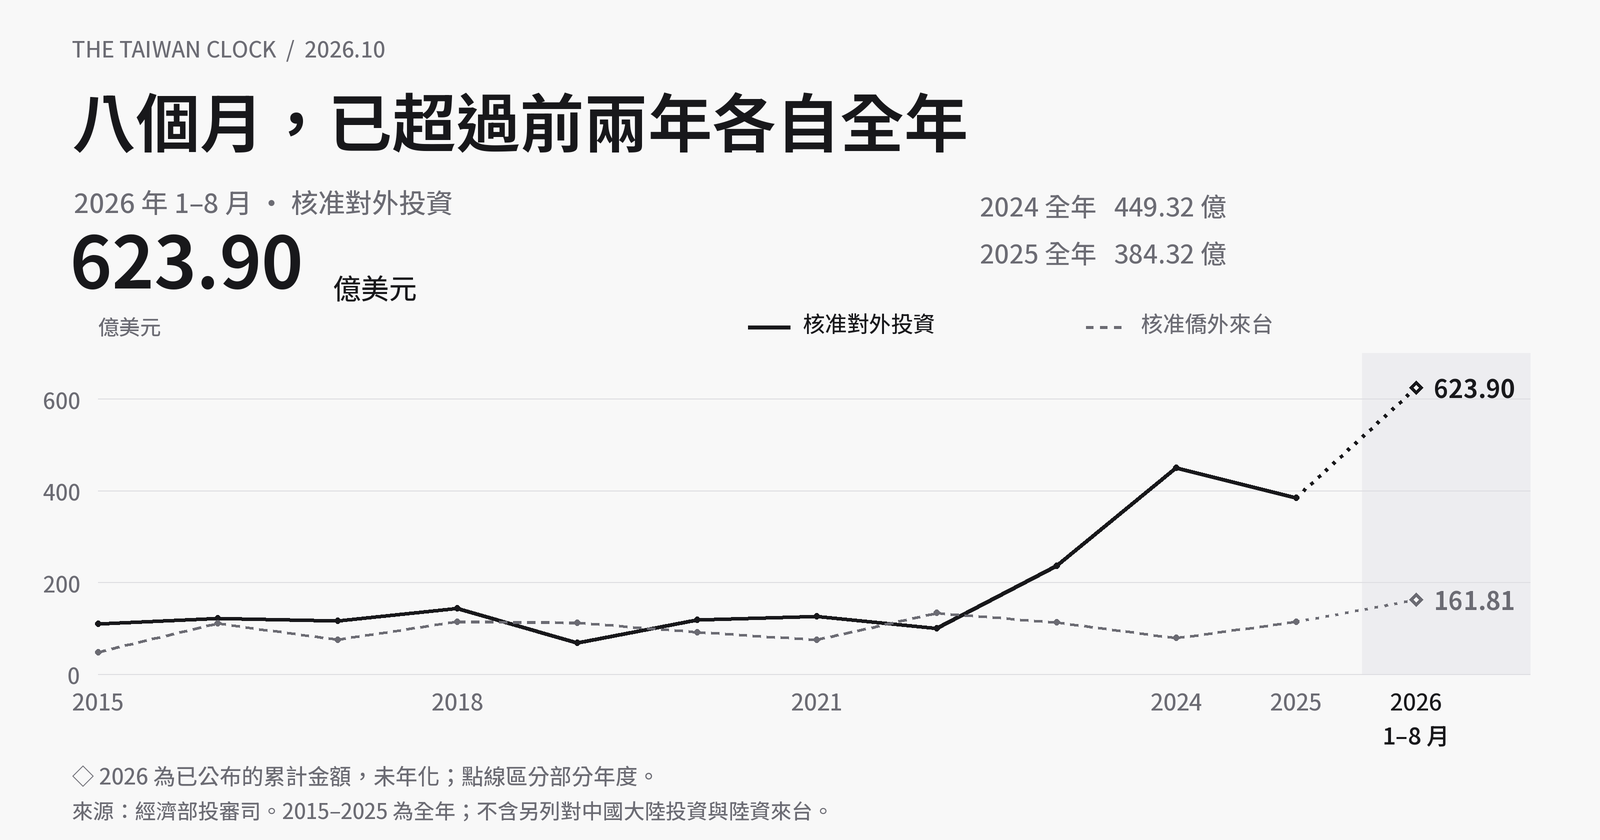
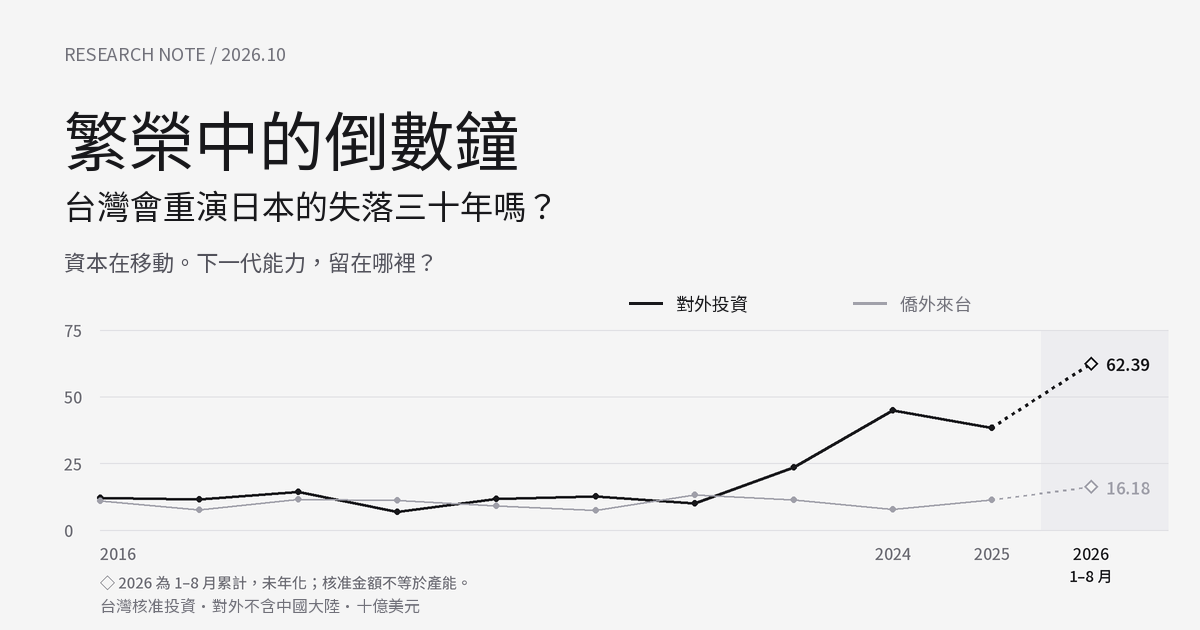
Restore original Taiwan clock hero layout and clarify 2025 investment approvals

diff --git a/src/components/taiwan-outlook/Outlook.tsx b/src/components/taiwan-outlook/Outlook.tsx
@@ -1,5 +1,6 @@
 import { useEffect, useState, type ReactNode } from "react";
 import evidence from "../../data/taiwan-outlook/evidence.json";
+import approvalAudit from "../../data/taiwan-outlook/approval-audit-2025.json";
 import {
   capabilityShare,
   countdownParts,
@@ -513,8 +514,9 @@ const indicators = [
     name: "資金",
     state: "流向變化已見",
     fact: "2025 年直接投資淨流出 343.44 億美元；2023 年為 182.59 億。",
-    meaning: "資本布局值得追查；總額本身不能說明半導體外移了多少。",
-    action: "按產業、最終用途、股權／債務／再投資拆分，接上境內資本支出。",
+    meaning: "總額不能量出產能外移；另列的核准統計還含大額財務避險增資。",
+    action:
+      "先分開核准與實際交易，再按最終用途拆分財務配置、併購與建廠，接上境內資本支出。",
     sources: ["C1", "C2"],
   },
   {
@@ -766,7 +768,7 @@ export function CapitalFlows() {
             ? "JETRO 國際收支淨流量・曆年・負的外來投資代表撤資淨額。"
             : basis === 0
               ? "中央銀行・2015–2025 全年＋2026 年 1–6 月累計・含盈餘再投資與關係企業債務，並非全部現金匯出。"
-              : "經濟部核准金額・2015–2025 全年＋2026 年 1–8 月累計・不含另表對中國大陸投資與陸資來台；不是實際執行額。"}
+              : "經濟部核准金額・2015–2025 全年＋2026 年 1–8 月累計・不含另表對中國大陸投資與陸資來台。包含財務避險、控股與併購等用途；不是實際執行額，也不是產能移轉量。"}
       </p>
       <LineChart
         data={data}
@@ -870,6 +872,83 @@ export function CapitalFlows() {
         核准對外較 2024 全年減少 14.47%，與 2026
         前八月已超過兩個全年，可以同時成立。
       </p>
+      {mode === 0 && basis === 1 && (
+        <>
+          <p className="to-note">
+            2025 年包含台積電兩筆 TSMC Global 增資，合計 200 億美元，約占全年
+            52%；官方用途為外匯避險與定存、債券孳息，不能視為海外建廠。
+            年度下降也不能單憑時間先後歸因於關稅觀望。
+          </p>
+          <details id="approval-audit-2025">
+            <summary>拆開 2025：每月核准額與兩筆已識別的財務用途增資</summary>
+            <p className="to-note">
+              單位：億美元。第三欄只列本次查明的兩筆 TSMC Global
+              增資；「—」不是該月沒有其他財務用途投資。核准月份不等於決策或執行月份。
+            </p>
+            <div className="to-table-wrap">
+              <table>
+                <thead>
+                  <tr>
+                    <th>2025 月份</th>
+                    <th>核准總額</th>
+                    <th>其中兩筆增資</th>
+                  </tr>
+                </thead>
+                <tbody>
+                  {approvalAudit.monthly.map((row) => {
+                    const known = approvalAudit.identifiedCases.find(
+                      (item) => item.month === row.month,
+                    );
+                    return (
+                      <tr key={row.month}>
+                        <td>{row.month} 月</td>
+                        <td>{n(row.amount / 100000)}</td>
+                        <td>
+                          {known ? (
+                            <a href={known.sourceUrl}>
+                              {n(known.amount / 100000)}
+                            </a>
+                          ) : (
+                            "—"
+                          )}
+                        </td>
+                      </tr>
+                    );
+                  })}
+                </tbody>
+                <tfoot>
+                  <tr>
+                    <th>全年</th>
+                    <td>
+                      {n(
+                        approvalAudit.monthly.reduce(
+                          (sum, row) => sum + row.amount,
+                          0,
+                        ) / 100000,
+                      )}
+                    </td>
+                    <td>
+                      {n(
+                        approvalAudit.identifiedCases.reduce(
+                          (sum, row) => sum + row.amount,
+                          0,
+                        ) / 100000,
+                      )}
+                    </td>
+                  </tr>
+                </tfoot>
+              </table>
+            </div>
+            <p className="to-note">
+              3 月 110.68 億扣除該筆 100 億後為 10.68 億，4 月總額則為 12.48
+              億。
+              這只說明大案會改變曲線形狀；其餘金額仍可能包含其他財務用途，不能直接稱為實體投資。
+              <a href={approvalAudit.sourceUrl}>經濟部 2025 年 12 月統計速報</a>
+              （2026-01-15 發布；對外總表）。
+            </p>
+          </details>
+        </>
+      )}
     </Panel>
   );
 }

diff --git a/scripts/render-taiwan-outlook-cover.py b/scripts/render-taiwan-outlook-cover.py
@@ -1,5 +1,9 @@
-"""Render the data-based cover: python scripts/render-taiwan-outlook-cover.py /path/to/NotoSansTC.ttf
-Requires Pillow. Values are read from the same evidence snapshot as the React charts.
+"""Update only the original cover's chart, not its editorial layout or copy.
+
+Run: python scripts/render-taiwan-outlook-cover.py /path/to/NotoSansTC.ttf
+Requires Pillow. Exact values come from the same snapshot as the React charts.
+The original cover.png is an immutable template; outside CHART_BOX pixels must
+remain identical, including the title, subtitle, legend and original footer.
 """
 from pathlib import Path
 import json, math, sys
@@ -8,7 +12,11 @@ root = Path(__file__).resolve().parents[1]
 data = json.loads((root / 'src/data/taiwan-outlook/evidence.json').read_text())
 font_path = sys.argv[1]
 S = 2
-im = Image.new('RGB', (1600*S, 840*S), '#f8f8f8')
+original = Image.open(root / 'src/assets/images/taiwan-japan-warning/cover.png').convert('RGB')
+assert original.size == (1200, 630), 'Inspect template before changing its dimensions'
+CHART_BOX = (60, 320, 1175, 593)
+background = original.getpixel((0, 0))
+im = Image.new('RGB', (1200*S, 630*S), background)
 d = ImageDraw.Draw(im)
 ink, muted, grid = '#18181b', '#6b6b73', '#dedee2'
 def font(size, weight=450):
@@ -28,41 +36,32 @@ def dashed(a,b,fill,width=3,dash=7,gap=7):
   line([(a[0]+dx*start/length,a[1]+dy*start/length),(a[0]+dx*end/length,a[1]+dy*end/length)],fill,width)
 def diamond(x,y,fill):
  pts=[((x+a)*S,(y+b)*S) for a,b in [(0,-7),(7,0),(0,7),(-7,0)]]
- d.polygon(pts,fill='#f8f8f8',outline=fill,width=3*S)
+ d.polygon(pts,fill=background,outline=fill,width=2*S)
 latest=data['taiwanPartial']['approval']
-annual=data['taiwan']
-values=[(r['year'],r['approvedOut']*10,r['approvedIn']*10) for r in annual]+[(2026,latest['outward']*10,latest['inward']*10)]
-txt(72,40,'THE TAIWAN CLOCK  /  2026.10',22,muted)
-txt(72,92,'八個月，已超過前兩年各自全年',64,weight=650)
-txt(74,190,'2026 年 1–8 月 · 核准對外投資',27,muted)
-txt(70,234,f"{latest['outward']*10:.2f}",72,weight=650)
-txt(333,275,'億美元',28)
-txt(980,194,f"2024 全年   {annual[-2]['approvedOut']*10:.2f} 億",26,muted)
-txt(980,241,f"2025 全年   {annual[-1]['approvedOut']*10:.2f} 億",26,muted)
-L,R,T,B=98,1416,353,674
+annual=[row for row in data['taiwan'] if row['year'] >= 2016]
+# Preserve the original chart's USD billions unit and 2016 starting year.
+values=[(r['year'],r['approvedOut'],r['approvedIn']) for r in annual]+[(2026,latest['outward'],latest['inward'])]
+L,R,T,B=100,1091,330,530
 xx=lambda i:L+i*(R-L)/(len(values)-1)
-yy=lambda v:B-v/700*(B-T)
-d.rectangle((xx(10.55)*S,T*S,1530*S,B*S),fill='#ededf0')
-txt(L,317,'億美元',21,muted)
-line([(748,327),(790,327)],ink,4);txt(803,313,'核准對外投資',22)
-dashed((1086,327),(1128,327),muted,3);txt(1141,313,'核准僑外來台',22,muted)
-for v in [0,200,400,600]:
- line([(L,yy(v)),(1530,yy(v))],grid,1)
- txt(L-18,yy(v),str(v),22,muted,anchor='rm')
-for col,color in [(1,ink),(2,muted)]:
+yy=lambda v:B-v/75*(B-T)
+d.rectangle((xx(9.5)*S,T*S,1168*S,B*S),fill='#ededf0')
+for v in [0,25,50,75]:
+ line([(L,yy(v)),(1168,yy(v))],grid,1)
+ txt(64,yy(v),str(v),16,muted,anchor='lm')
+for col,color in [(1,ink),(2,'#9f9fa9')]:
  pts=[(xx(i),yy(v[col])) for i,v in enumerate(values)]
- if col==1: line(pts[:-1],color,4)
- else:
-  for a,b in zip(pts[:-2],pts[1:-1]): dashed(a,b,color,3,8,6)
- dashed(pts[-2],pts[-1],color,4 if col==1 else 3,3,7)
+ line(pts[:-1],color,3 if col==1 else 2)
+ dashed(pts[-2],pts[-1],color,3 if col==1 else 2,3,5)
  for x,y in pts[:-1]:d.ellipse(((x-3)*S,(y-3)*S,(x+3)*S,(y+3)*S),fill=color)
  diamond(*pts[-1],color)
- txt(R+18,pts[-1][1]-1,f'{values[-1][col]:.2f}',25,color,650,anchor='lm')
-for year in [2015,2018,2021,2024,2025,2026]:
- txt(xx(year-2015),693,str(year),23,ink if year==2026 else muted,anchor='mt')
-txt(R,726,'1–8 月',23,ink,550,anchor='mt')
-txt(72,765,'◇ 2026 為已公布的累計金額，未年化；點線區分部分年度。',22,muted)
-txt(72,801,'來源：經濟部投審司。2015–2025 為全年；不含另列對中國大陸投資與陸資來台。',21,muted)
+ txt(R+15,pts[-1][1],f'{values[-1][col]:.2f}',17,color,550,anchor='lm')
+txt(L,548,'2016',16,muted)
+for year in [2024,2025,2026]:
+ txt(xx(year-2016),548,str(year),16,ink if year==2026 else muted,anchor='mt')
+txt(R,570,'1–8 月',15,ink,500,anchor='mt')
+txt(L,575,'◇ 2026 為 1–8 月累計，未年化；核准金額不等於產能。',15,muted)
 output=root/'src/assets/images/taiwan-japan-warning/cover-2026-ytd.png'
-im.resize((1600,840),Image.Resampling.LANCZOS).save(output,optimize=True)
+chart = im.resize(original.size,Image.Resampling.LANCZOS)
+original.paste(chart.crop(CHART_BOX), CHART_BOX)
+original.save(output,optimize=True)
 print(output)

diff --git a/src/data/taiwan-outlook/README.md b/src/data/taiwan-outlook/README.md
@@ -16,6 +16,12 @@ Snapshot: 2026-10-04. Post: `src/content/blog/zh/taiwan-japan-capability-warning
 
 The annual comparison uses net outward FDI divided by its own first-year value ×100. Taiwan 2015 / Japan 1983 alignment is descriptive, not event identification. It does not adjust for prices, exchange rates, economic size, or differences in BOP compilation. Taiwan includes the observed 2026 January–June partial value at relative year 11, marked only on its own series; Japan at the same position remains a full-year observation. The unobserved later Taiwan years remain blank.
 
+## 2025 approval-purpose audit (reviewed 2026-10-05)
+
+`approval-audit-2025.json` retains all twelve monthly outward approvals from the 2026-01-15 MOEA release, workbook `對外總表`, in the original **USD thousands**. Their sum must reconcile to `evidence.json`'s unchanged 2025 annual approval figure. The UI divides by 100,000 to display 億美元.
+
+The 2025-03-26 and 2025-08-27 MOEA meeting PDFs each identify a USD 10bn TSMC Global capitalization for FX-hedging costs and deposit/bond income. These two cases total USD 20bn, about 52% of annual approvals. They are not factory-construction approvals. The audit only identifies these two cases, not all financial-purpose investment; do not interpret other months' dashes as zero financial investment, or the residual as physical investment. Approval months are neither decision nor execution dates. PMI evidence supports contemporaneous uncertainty, not a quantified causal attribution of the annual decline. Annual totals, BOP series, partial periods and clock formulas remain unchanged.
+
 ## Clock and scenarios
 
 The calendar clock counts to the **end of the chosen Taipei year**, using UTC December 31 16:00. 2030 and 2035 are author-selected policy-review horizons, not estimated crisis dates. The ring measures elapsed calendar time from Taipei 2026-10-04, not an economic risk score. At expiry it stops at zero and requests a new review.
@@ -30,4 +36,4 @@ Update both directions and keep annual/partial periods separate. Record the snap
 
 ## Cover generation
 
-`python scripts/render-taiwan-outlook-cover.py /path/to/NotoSansTC.ttf` regenerates `cover-2026-ytd.png` using Pillow. The cover reads the same annual and partial-period evidence as the interactive charts; no annualization or trend smoothing is applied. The font is Noto Sans TC (Google Fonts / SIL Open Font License).
+`python scripts/render-taiwan-outlook-cover.py /path/to/NotoSansTC.ttf` regenerates `cover-2026-ytd.png` using Pillow. It updates only the plot region of the original 1200×630 `cover.png`: title, subtitle, editorial copy, legend, footer and all pixels outside that region remain identical. The cover reads the same annual and partial-period evidence as the interactive charts, retaining the original USD billions unit and 2016 starting year. The 2025 decline stays; the 2026 January–August observation is added with a dotted segment, diamond and period label. No annualization or smoothing is applied. The font is Noto Sans TC (Google Fonts / SIL Open Font License). Regression tests protect the original layout against unintended redesign.
